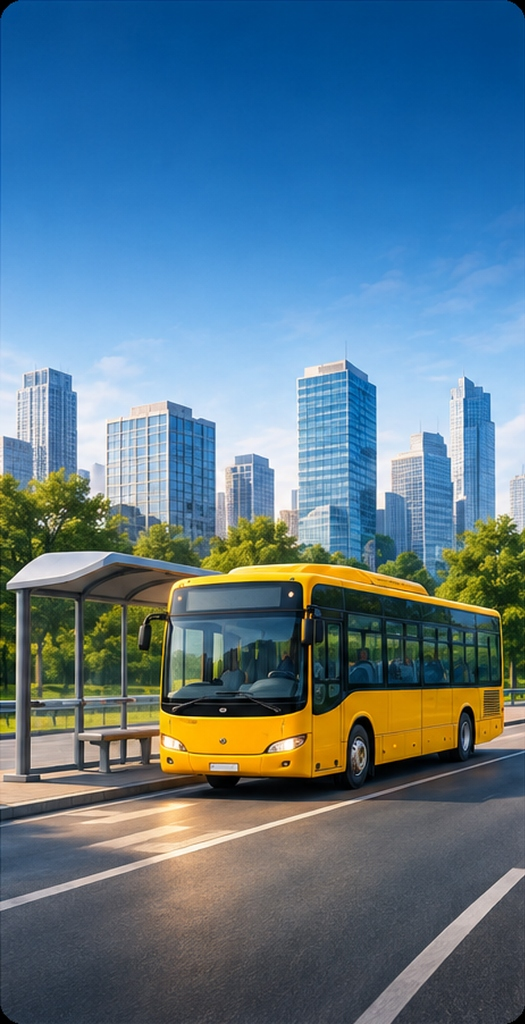
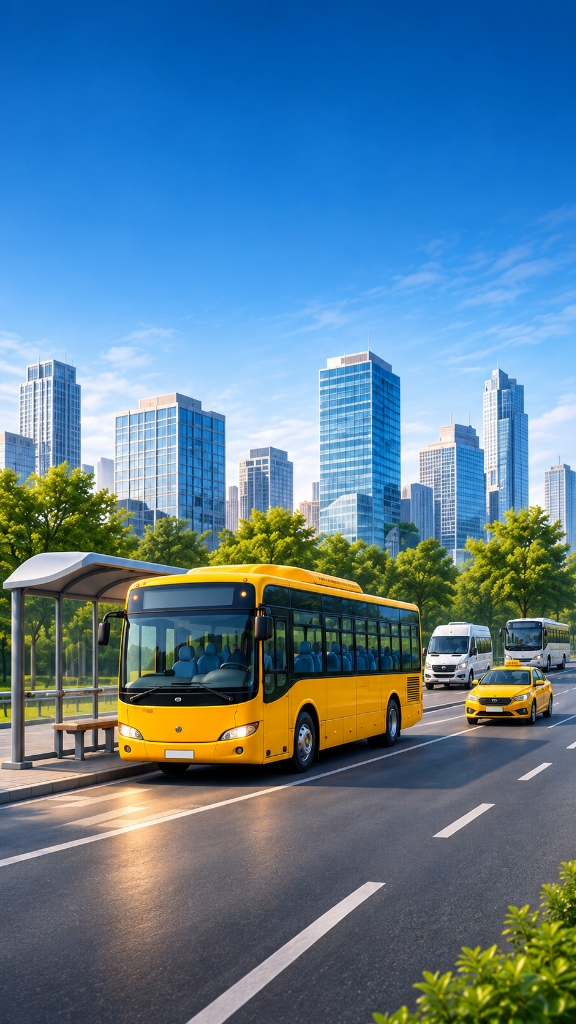
feat: update Commute card with user provided transit bus and taxi fleet image

diff --git a/index.html b/index.html
@@ -57,7 +57,7 @@
   <!-- 1. Header માં (CSS) - Ask-Uffizio AI Chatbot -->
   <link rel="stylesheet" href="https://hineshvarma-uffizio.github.io/Ask-Uffizio-Chatbot/uffizio-ai-chat.css">
   <!-- Custom Stylesheet with cache-buster -->
-  <link rel="stylesheet" href="styles.css?v=20261103-telematics-fleet-image">
+  <link rel="stylesheet" href="styles.css?v=20261103-commute-image">
 </head>
 <body class="bg-slate-50 dark:bg-slate-950 text-slate-800 dark:text-slate-100 antialiased font-sans min-h-screen flex flex-col transition-colors duration-200">
 
@@ -1664,7 +1664,7 @@
           <!-- ==================================================== -->
           <!-- CARD 2: UFFIZIO COMMUTE (HIGH-RES 837x1024)          -->
           <!-- ==================================================== -->
-          <div class="card-box rounded-3xl relative group min-h-[540px] sm:min-h-[580px] flex flex-col justify-end bg-cover overflow-hidden" style="background-image: url('assets/card-commute.jpg'); background-position: center bottom;">
+          <div class="card-box rounded-3xl relative group min-h-[540px] sm:min-h-[580px] flex flex-col justify-end bg-cover overflow-hidden" style="background-image: url('assets/card-commute.jpg?v=20261103-commute-bus'); background-position: center bottom;">
             
             <!-- Bottom Gradient Overlay with Title, Description & CTA -->
             <div class="relative z-20 pt-28 pb-7 px-6 sm:px-8 rounded-b-3xl bg-gradient-to-t from-[#040814] via-[#040814]/90 to-transparent">
@@ -1978,7 +1978,7 @@
   </a>
 
   <!-- Custom Logic & Event Listeners -->
-  <script src="script.js?v=20261103-telematics-fleet-image"></script>
+  <script src="script.js?v=20261103-commute-image"></script>
 
   <!-- 2. Footer માં (JS) - Ask-Uffizio AI Chatbot -->
   <script>
